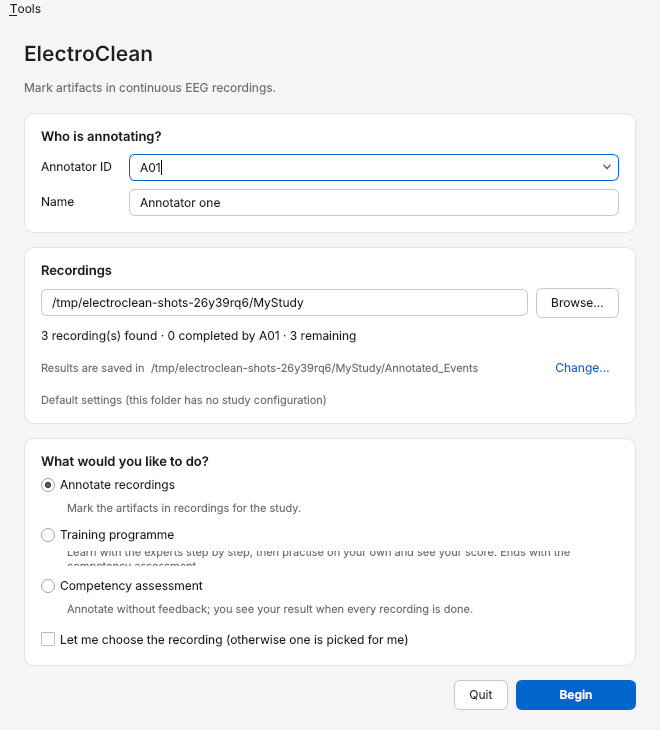
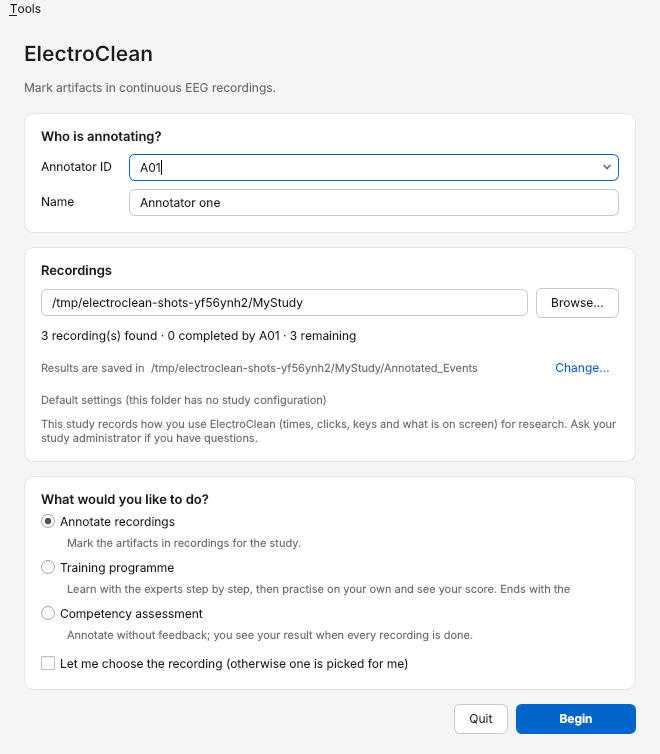
Review list items wrap; changelog for the training programme and the activity logs
Claude-Session: https://claude.ai/code/session_017xVKVrhY2LqVqx1mumB73p

diff --git a/electroclean/training/guided_gui.py b/electroclean/training/guided_gui.py
@@ -718,6 +718,10 @@ def add_review_flags(ctrl: Any, ws: Any, flags: list[dict[str, Any]]) -> None:
         v.addWidget(style.label("Click an item, or press N and P, to go to it.", "caption"))
         lst = QListWidget()
         lst.setMaximumHeight(150)
+        # Long items wrap rather than run off the side of the panel.
+        lst.setWordWrap(True)
+        lst.setHorizontalScrollBarPolicy(Qt.ScrollBarAlwaysOff)
+        lst.setTextElideMode(Qt.ElideNone)
         for f in flags:
             item = QListWidgetItem(_flag_text(f))
             item.setData(Qt.UserRole, f["region"])

diff --git a/CHANGELOG.md b/CHANGELOG.md
@@ -27,6 +27,30 @@ selected, and a click, the N and P keys or a double-click selects them. A
 right-click lists the common types first. The keys are shown at the bottom
 of the window and in Help.
 
+A training programme takes new annotators from first steps to the competency
+assessment, one stage at a time, on a training path that shows their stars,
+scores and time. In *Learn with the experts* they mark each of the experts'
+annotations in turn and cannot move on until theirs matches: the same type,
+start and end within 0.2 s (or a fifth of the artifact's length), and the same
+channels. The help fades from one recording to the next (the experts'
+annotation outlined, then the type named, then only "find the next
+artifact"), feedback says exactly what differs, and *Show me* demonstrates the
+answer. In *On your own* they annotate a recording by themselves and see their
+score, with what they missed, marked extra or typed differently flagged on the
+EEG; 80 % unlocks the assessment. An example training set of three simulated
+recordings stands in until real expert-annotated recordings are imported,
+and training recordings live with their reference set, so they are never
+offered for study annotation.
+
+ElectroClean can record how annotators work, as research data: every click
+and key, what was on screen, every change to the annotations, the dialogs, idle
+periods and the training steps, time-stamped in one log per visit (text typed
+into fields and passwords are never recorded, and the start window says when
+recording is on). *Activity and learning curves* in the administrator tools,
+or `electroclean-activity`, turns the logs into tables for R or Python and a
+report showing, for example, whether annotators got faster from one recording
+to the next.
+
 A test with two openly available 128-channel recordings led to further
 changes. Annotation labels sit on small tags above the traces, the channel
 chooser finds channels by name, ticks whole regions or banks with one click
